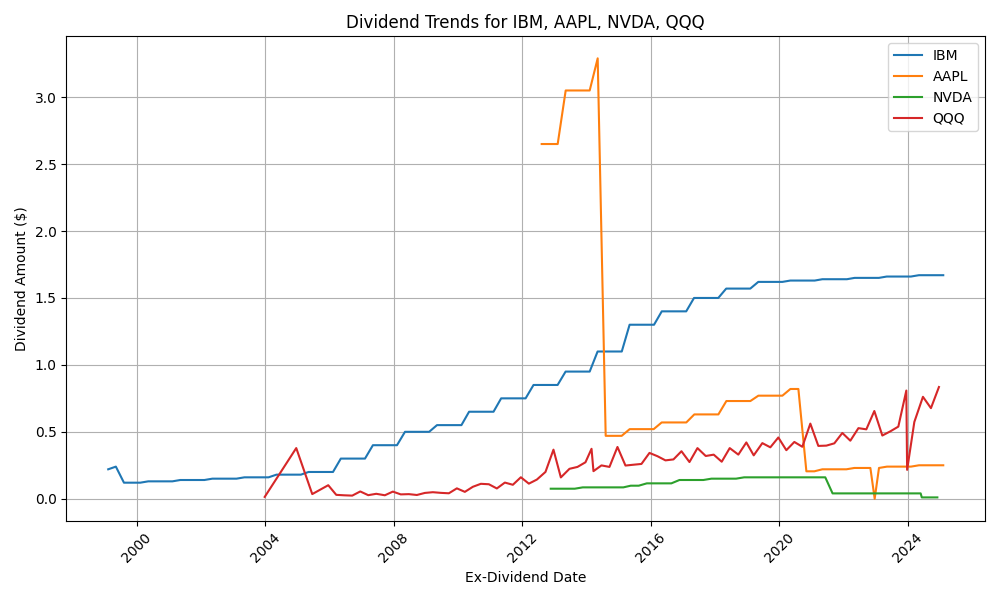
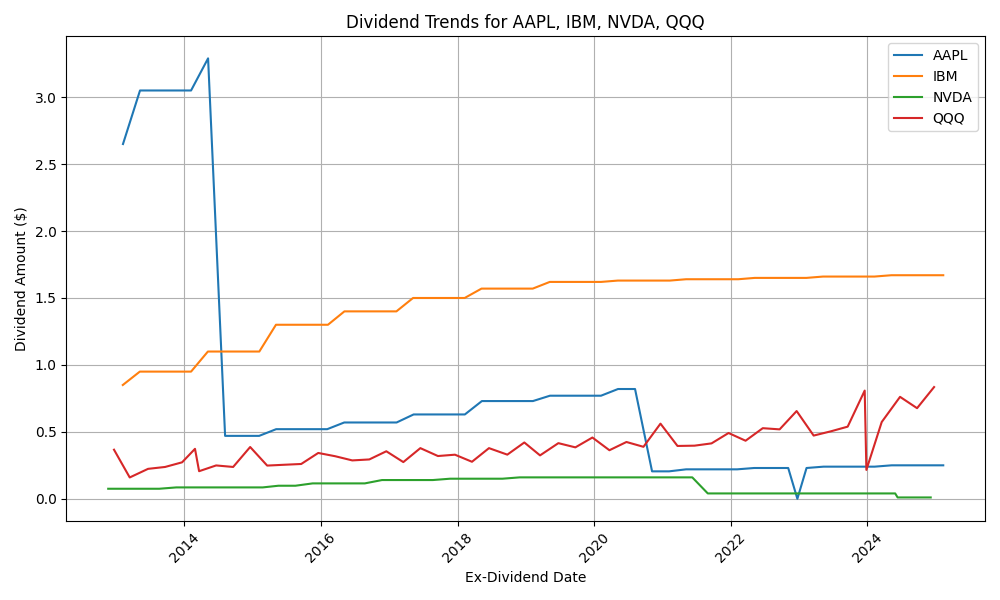
Refined graph_ci to point towards to right file; dividends in overlay now starts at the same time

diff --git a/Corporate_Information/graph_ci.py b/Corporate_Information/graph_ci.py
@@ -12,7 +12,7 @@ EXIT_FAIL = 0
 
 def plot_dividends_overlay(companies: list[str]):
     '''
-    Plots the dividend trends of one more more companies on top of each other.
+    Plots the dividend trends of one or more companies on top of each other, starting from the latest start date across all companies.
 
     Input:
     companies: a list of tickers for the companies.
@@ -25,13 +25,15 @@ def plot_dividends_overlay(companies: list[str]):
     if num_companies == 0:
         print("Error - not enough companies selected.")
         return EXIT_FAIL
-    
-    plt.figure(figsize=(10, 6))
+
+    all_dividend_data = []
+    latest_start_date = datetime.min
 
     for company_number in range(num_companies):
         try:
-            fname = f"{companies[company_number]}_dividends.json"
-            with open(fname, 'r') as fp:
+
+            dividend_file_path = os.path.join(parent_dir, 'Dividend_Data', f"{companies[company_number]}_dividends.json")
+            with open(dividend_file_path, 'r') as fp:
                 dividend_data = json.load(fp)
         except:
             dividend_data = get_dividends(companies[company_number])
@@ -42,10 +44,24 @@ def plot_dividends_overlay(companies: list[str]):
             return EXIT_FAIL
         
         dividend_data = dividend_data["data"]
+        all_dividend_data.append((companies[company_number], dividend_data))
 
-        dates = [datetime.strptime(record['ex_dividend_date'], '%Y-%m-%d') for record in dividend_data]
-        amounts = [float(record['amount']) for record in dividend_data]
-        plt.plot(dates, amounts, linestyle='-', label=companies[company_number])
+        last_entry_date = datetime.strptime(dividend_data[-1]['ex_dividend_date'], '%Y-%m-%d')
+        latest_start_date = max(latest_start_date, last_entry_date)
+
+    plt.figure(figsize=(10, 6))
+
+    for company_name, dividend_data in all_dividend_data:
+
+        filtered_data = [record for record in dividend_data if datetime.strptime(record['ex_dividend_date'], '%Y-%m-%d') >= latest_start_date]
+
+        if not filtered_data:
+            print(f"No data after {latest_start_date.strftime('%Y-%m-%d')} for {company_name}.")
+            continue
+        
+        dates = [datetime.strptime(record['ex_dividend_date'], '%Y-%m-%d') for record in filtered_data]
+        amounts = [float(record['amount']) for record in filtered_data]
+        plt.plot(dates, amounts, linestyle='-', label=company_name)
 
     plt.title(f"Dividend Trends for {', '.join(companies)}")
     plt.xlabel("Ex-Dividend Date")
